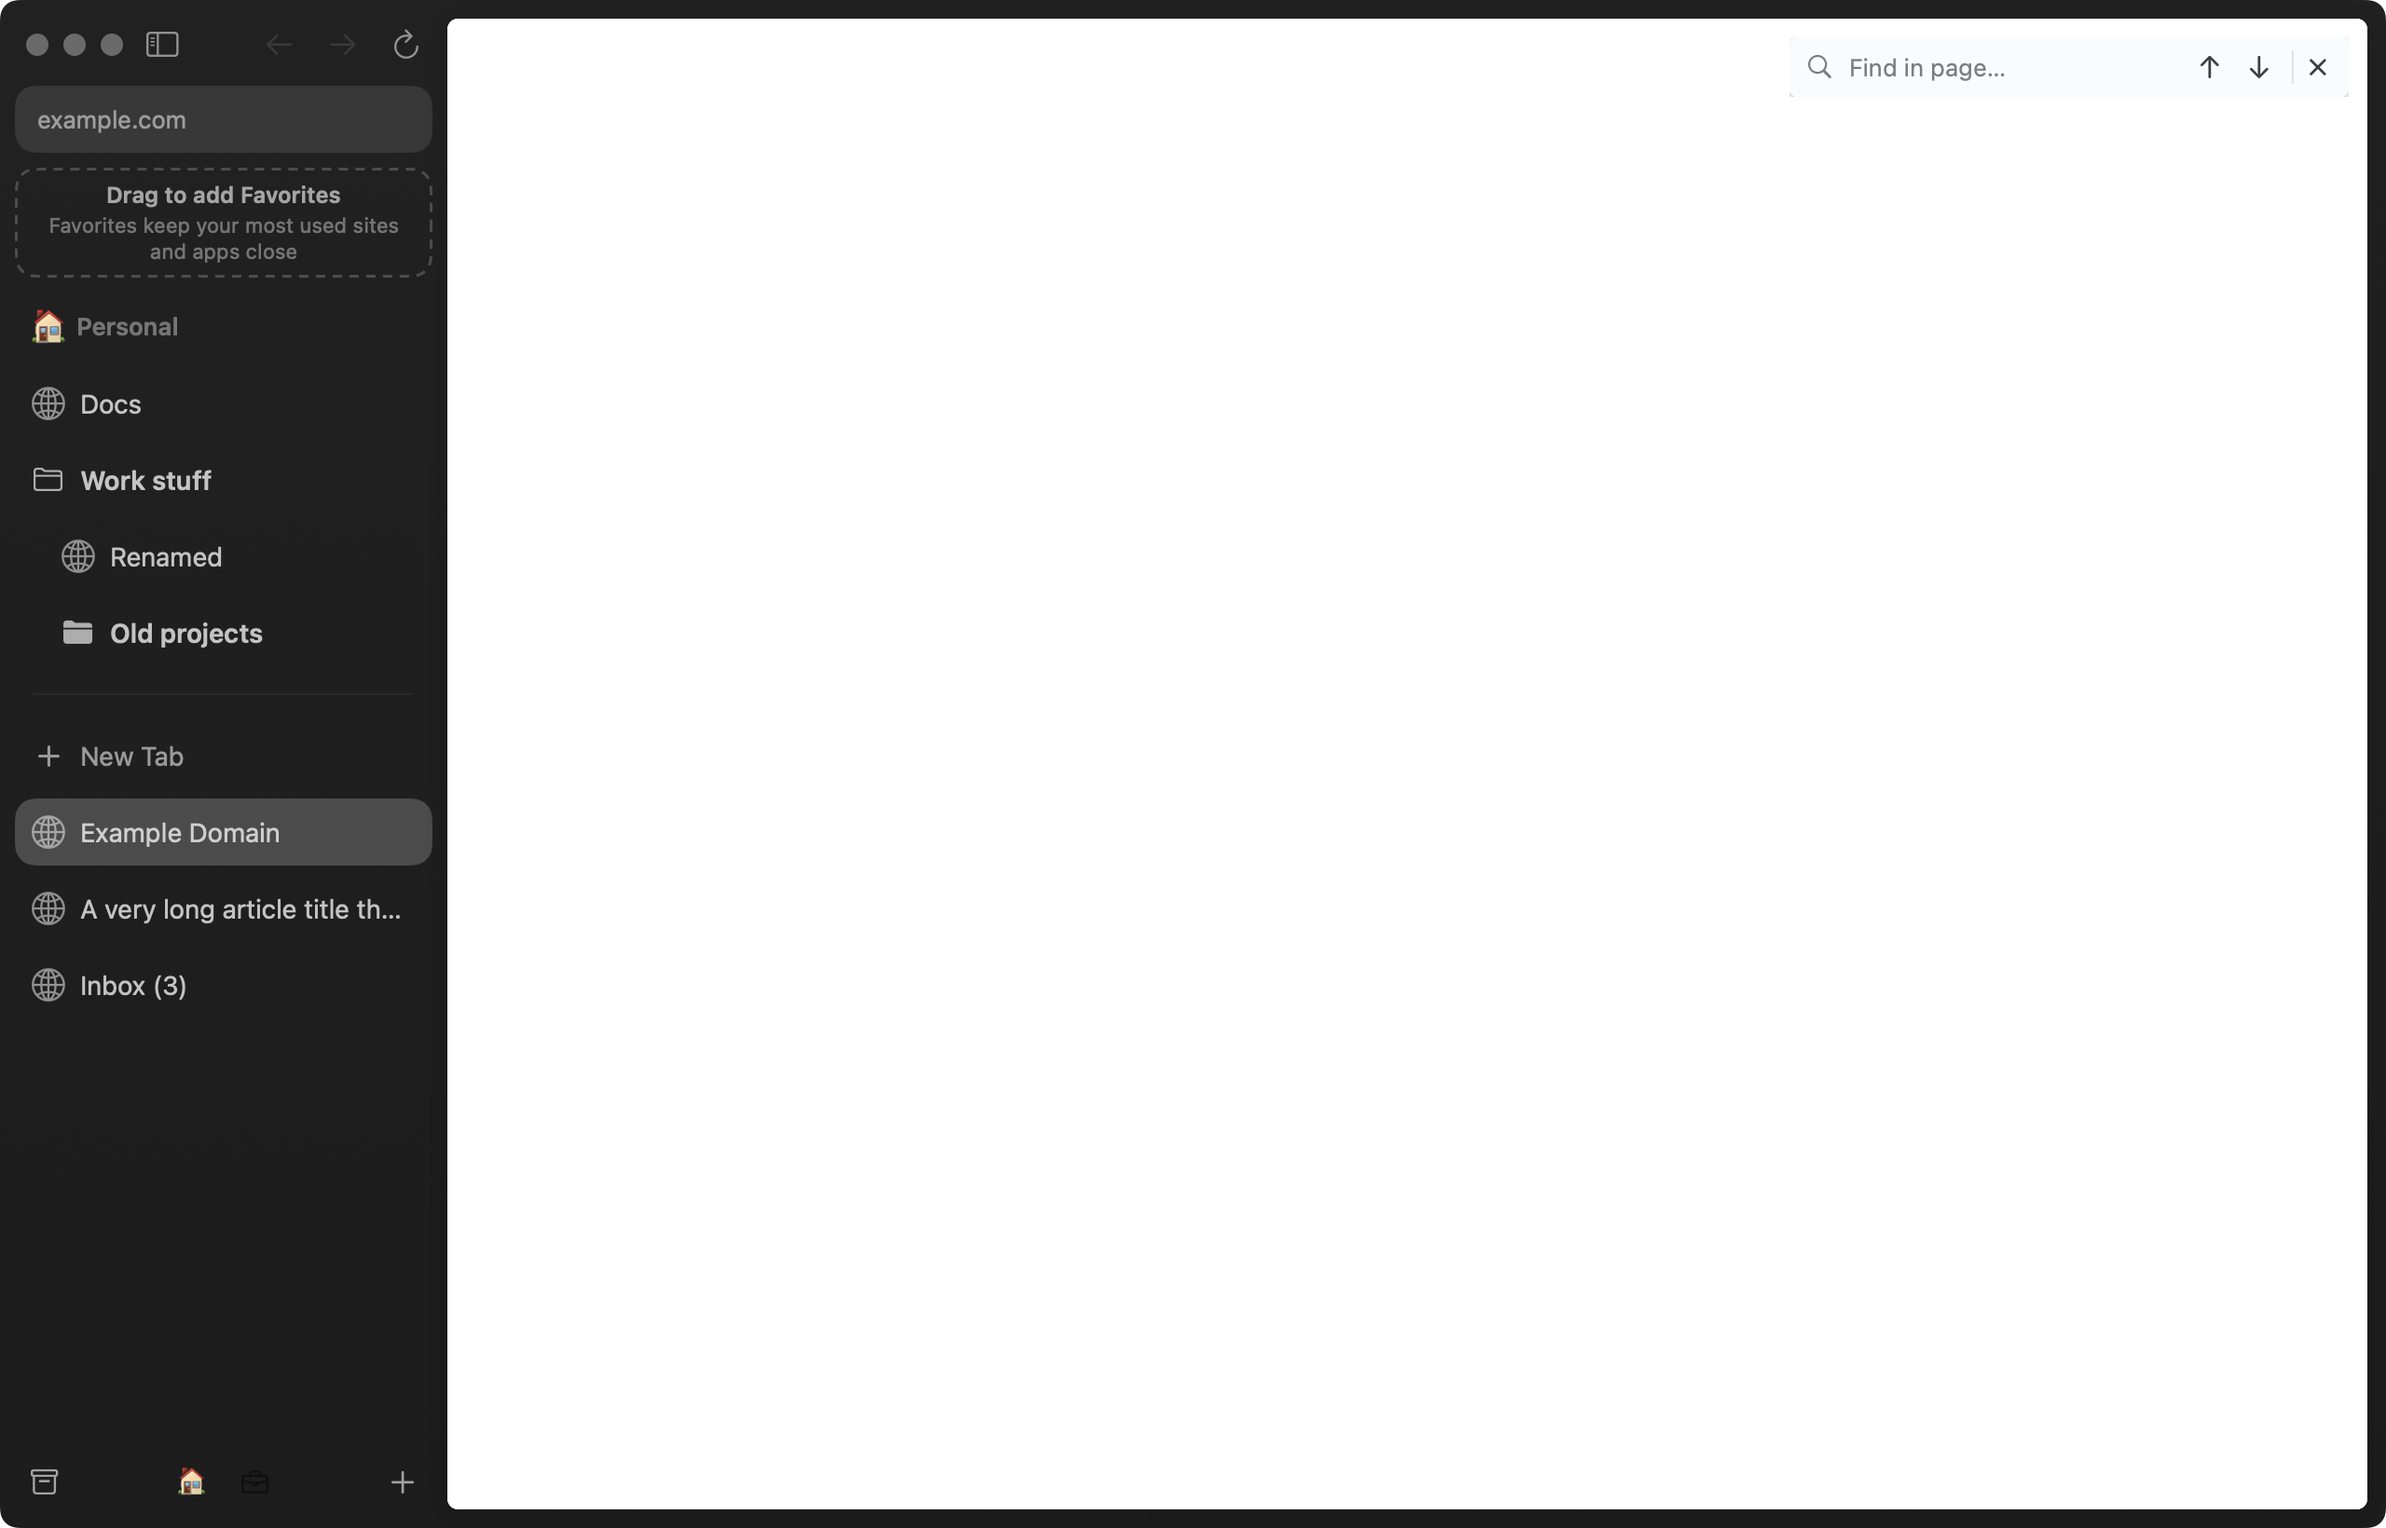
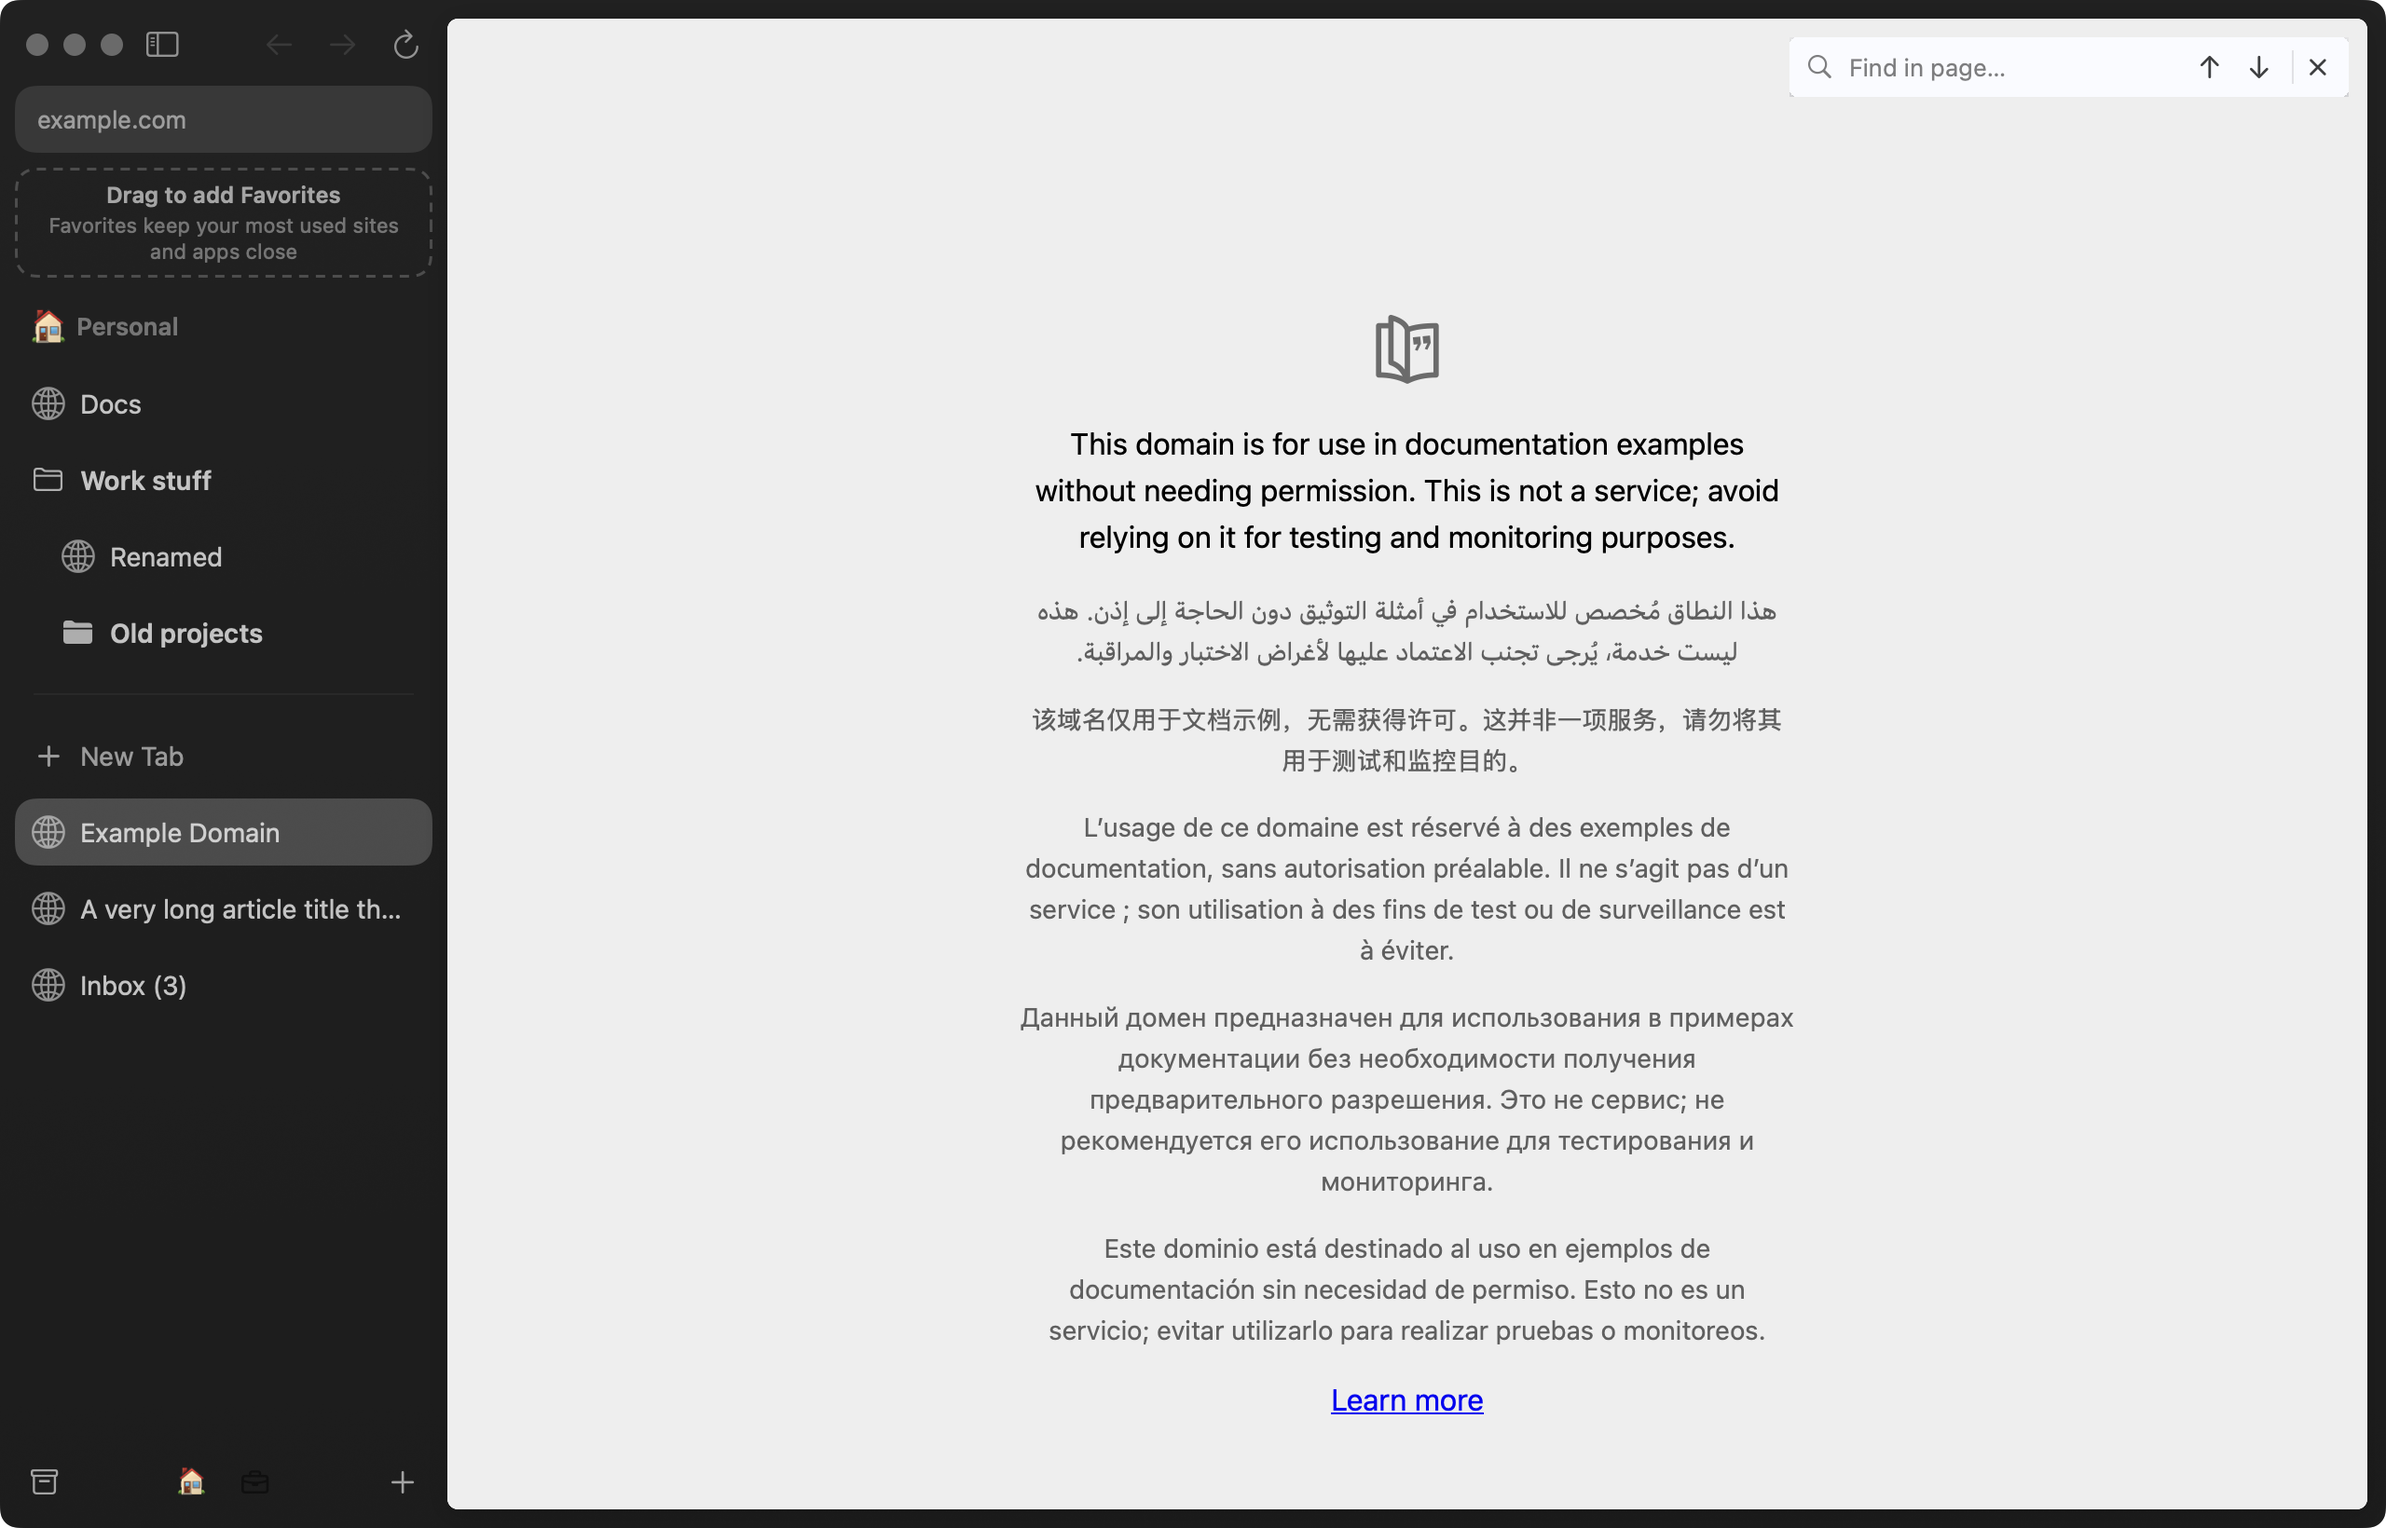
Mac references for w21, taken headless by CI
From review/w21-mac-request a5ba9a2, built from 1eb72a9.
Run: https://github.com/gabekus/kite/actions/runs/41975259151

diff --git a/review/w21-mac/NOTES.md b/review/w21-mac/NOTES.md
@@ -2,45 +2,61 @@
 
 Taken headless by `.github/workflows/mac-reference-captures.yml` (`scripts/mac-reference-captures.sh`) on gabe-mac-kite, macOS 15.7.4 (24G517), arm64.
 
-Build: a debug test bundle (dev.gabek.Kite.dev, ad-hoc signed) from origin/main 4943b34 (`4943b3493d2120f6310dcd8c38723ebe112cc80d`), engine WebKit (no CEF in ThirdParty/cef, as in CI). Each state used a fresh `mktemp -d /tmp/k.XXXX` profile with its session as session.json, `defaults delete dev.gabek.Kite.dev SidebarWidth` first, `KITE_DIAGNOSTICS=1 KITE_TEST_BLOCK_VIEWS_WINDOWS=1 TYPESAFE_API_KEY=x KITE_WINDOW_SIZE=W,H` (downloads, web apps and browser data inside the profile), and Kite in the background throughout (never activated, input posted to its window only), quit afterwards.
+Build: a debug test bundle (dev.gabek.Kite.dev, ad-hoc signed) from origin/main 1eb72a9 (`1eb72a953f8740b7281fbbad6dc7f47f91eafdb5`), engine WebKit (no CEF in ThirdParty/cef, as in CI). Each state used a fresh `mktemp -d /tmp/k.XXXX` profile with its session as session.json, `defaults delete dev.gabek.Kite.dev SidebarWidth` first, `KITE_DIAGNOSTICS=1 KITE_TEST_BLOCK_VIEWS_WINDOWS=1 TYPESAFE_API_KEY=x KITE_WINDOW_SIZE=W,H` (downloads, web apps and browser data inside the profile), and Kite in the background throughout (never activated, input posted to its window only), quit afterwards.
 
 **Capture path:** in-process, `kite ui capture '{"source":"in-process"}' -o NAME.png`, 2× (2560×1640). Screen Recording is never used on the runner, so every PNG is in-process: blurred materials are drawn unblurred, and Kite lists where they are:
 
 > Window N captured at 2× (2560×1640 px), sRGB, by an in-process render.
 > Drawn in Kite: blurred materials are their unblurred fallback (what's behind them isn't in it); the theme, the views and the pages are as on screen.
 > Material (unblurred) at: [0,0 1280×820], [0,0 1280×28].
+> The loading glow (Metal) isn't drawn.
 > Saved full resolution PNG to NAME.png.
 
 | file | session | env | steps | holds | result |
 |---|---|---|---|---|---|
-| find-empty.png | `windows/helix/states/find-bar.json` from `origin/helix/W21-find` (697aa82) | `KITE_TEST_FIND_OPEN=1` | wait 5 s; 1 s later, the capture | the find bar open and empty over example.com, 10pt in from the content card's top-right corner: the magnifier, "Find in page…", the arrows, the divider and close; no counter | captured |
-| find-matches.png | `windows/helix/states/find-bar.json` from `origin/helix/W21-find` (697aa82) | `KITE_TEST_FIND=domain` | wait 5 s; 1 s later, the capture | the find bar with "domain" typed and the counter reading 1/2, the first match highlighted on the page | captured |
-| find-none.png | `windows/helix/states/find-bar.json` from `origin/helix/W21-find` (697aa82) | `KITE_TEST_FIND=zqxj` | wait 5 s; 1 s later, the capture | the find bar with "zqxj" typed and "Not Found" in red where the counter goes | captured |
+| find-empty.png | `windows/helix/states/find-bar.json` from `origin/helix/W21-find` (d785f97) | `KITE_TEST_FIND_OPEN=1` | wait 5 s; 1 s later, the capture | the find bar open and empty over example.com, 10pt in from the content card's top-right corner: the magnifier, "Find in page…", the arrows, the divider and close; no counter | captured |
+| find-matches.png | `windows/helix/states/find-bar.json` from `origin/helix/W21-find` (d785f97) | `KITE_TEST_FIND=domain` | wait 5 s; 1 s later, the capture | the find bar with "domain" typed and the counter reading 1/2, the first match highlighted on the page | captured |
+| find-none.png | `windows/helix/states/find-bar.json` from `origin/helix/W21-find` (d785f97) | `KITE_TEST_FIND=zqxj` | wait 5 s; 1 s later, the capture | the find bar with "zqxj" typed and "Not Found" in red where the counter goes | captured |
 
 ## Logged by the test hooks
 
 find-empty:
 
 ```
+KITE_TEST_FIND: page: made (URL to load: yes, saved state: none)
+KITE_TEST_FIND: page: load asked (web view URL set: yes, loading: yes, progress: 0.10, content process: none)
 KITE_TEST_FIND: armed: open, empty; waiting up to 20 s for the selected tab's page to load (covered pages answer: yes, window visible: no)
-KITE_TEST_FIND: no page finished loading in 20 s, so the find bar opens without it (finished loads seen: 0, of the selected tab: 0; selected tab: yes, page shown: yes, loading: unknown, progress: unknown; web view loading: no, web view progress: 0.00, web view URL set: no, content process ended: 0 times, content process: running; window visible: no, ordered in: yes, on a screen: yes, screens: 1)
-KITE_TEST_FIND: ready (fallback, the page never loaded): open, empty
+KITE_TEST_FIND: page: started
+KITE_TEST_FIND: page: committed
+KITE_TEST_FIND: ready: open, empty
+KITE_TEST_FIND: page: finished
+KITE_TEST_FIND: page: 2 s after the load (web view URL set: yes, loading: no, progress: 1.00, content process: running)
 ```
 
 find-matches:
 
 ```
+KITE_TEST_FIND: page: made (URL to load: yes, saved state: none)
+KITE_TEST_FIND: page: load asked (web view URL set: yes, loading: yes, progress: 0.10, content process: none)
 KITE_TEST_FIND: armed: query "domain"; waiting up to 20 s for the selected tab's page to load (covered pages answer: yes, window visible: no)
-KITE_TEST_FIND: no page finished loading in 20 s, so the find bar opens without it (finished loads seen: 0, of the selected tab: 0; selected tab: yes, page shown: yes, loading: unknown, progress: unknown; web view loading: no, web view progress: 0.00, web view URL set: no, content process ended: 0 times, content process: running; window visible: no, ordered in: yes, on a screen: yes, screens: 1)
-KITE_TEST_FIND: ready (fallback, the page never loaded): "domain" set, no find result
+KITE_TEST_FIND: page: started
+KITE_TEST_FIND: page: committed
+KITE_TEST_FIND: page: finished
+KITE_TEST_FIND: ready: "domain", found, counter ""
+KITE_TEST_FIND: page: 2 s after the load (web view URL set: yes, loading: no, progress: 1.00, content process: running)
 ```
 
 find-none:
 
 ```
+KITE_TEST_FIND: page: made (URL to load: yes, saved state: none)
+KITE_TEST_FIND: page: load asked (web view URL set: yes, loading: yes, progress: 0.10, content process: none)
 KITE_TEST_FIND: armed: query "zqxj"; waiting up to 20 s for the selected tab's page to load (covered pages answer: yes, window visible: no)
-KITE_TEST_FIND: no page finished loading in 20 s, so the find bar opens without it (finished loads seen: 0, of the selected tab: 0; selected tab: yes, page shown: yes, loading: unknown, progress: unknown; web view loading: no, web view progress: 0.00, web view URL set: no, content process ended: 0 times, content process: running; window visible: no, ordered in: yes, on a screen: yes, screens: 1)
-KITE_TEST_FIND: ready (fallback, the page never loaded): "zqxj" set, no find result
+KITE_TEST_FIND: page: started
+KITE_TEST_FIND: page: committed
+KITE_TEST_FIND: page: finished
+KITE_TEST_FIND: ready: "zqxj", not found, counter "Not Found"
+KITE_TEST_FIND: page: 2 s after the load (web view URL set: yes, loading: no, progress: 1.00, content process: running)
 ```
 
 ## Frames (`kite ui tree '{"match":"FindBar"}'`, window points)
@@ -48,7 +64,7 @@ KITE_TEST_FIND: ready (fallback, the page never loaded): "zqxj" set, no find res
 find-empty (after the capture; `find-empty.tree.txt` has launch, before and after):
 
 ```
-Window 18904, 1280×820 pt at 2×. Points from the window's top-left.
+Window 18914, 1280×820 pt at 2×. Points from the window's top-left.
 <untrusted-page-content source="Kite window">
 0.6 FindBar [960,20 300×32] bg=#FAFBFF radius=5 shadow=#151C32@0.3 opacity 1 radius 5 offset 0,-3
 </untrusted-page-content>
@@ -57,7 +73,7 @@ Window 18904, 1280×820 pt at 2×. Points from the window's top-left.
 find-matches (after the capture; `find-matches.tree.txt` has launch, before and after):
 
 ```
-Window 18906, 1280×820 pt at 2×. Points from the window's top-left.
+Window 18916, 1280×820 pt at 2×. Points from the window's top-left.
 <untrusted-page-content source="Kite window">
 0.6 FindBar [960,20 300×32] bg=#FAFBFF radius=5 shadow=#151C32@0.3 opacity 1 radius 5 offset 0,-3
 </untrusted-page-content>
@@ -66,7 +82,7 @@ Window 18906, 1280×820 pt at 2×. Points from the window's top-left.
 find-none (after the capture; `find-none.tree.txt` has launch, before and after):
 
 ```
-Window 18908, 1280×820 pt at 2×. Points from the window's top-left.
+Window 18918, 1280×820 pt at 2×. Points from the window's top-left.
 <untrusted-page-content source="Kite window">
 0.6 FindBar [960,20 300×32] bg=#FAFBFF radius=5 shadow=#151C32@0.3 opacity 1 radius 5 offset 0,-3
 </untrusted-page-content>
